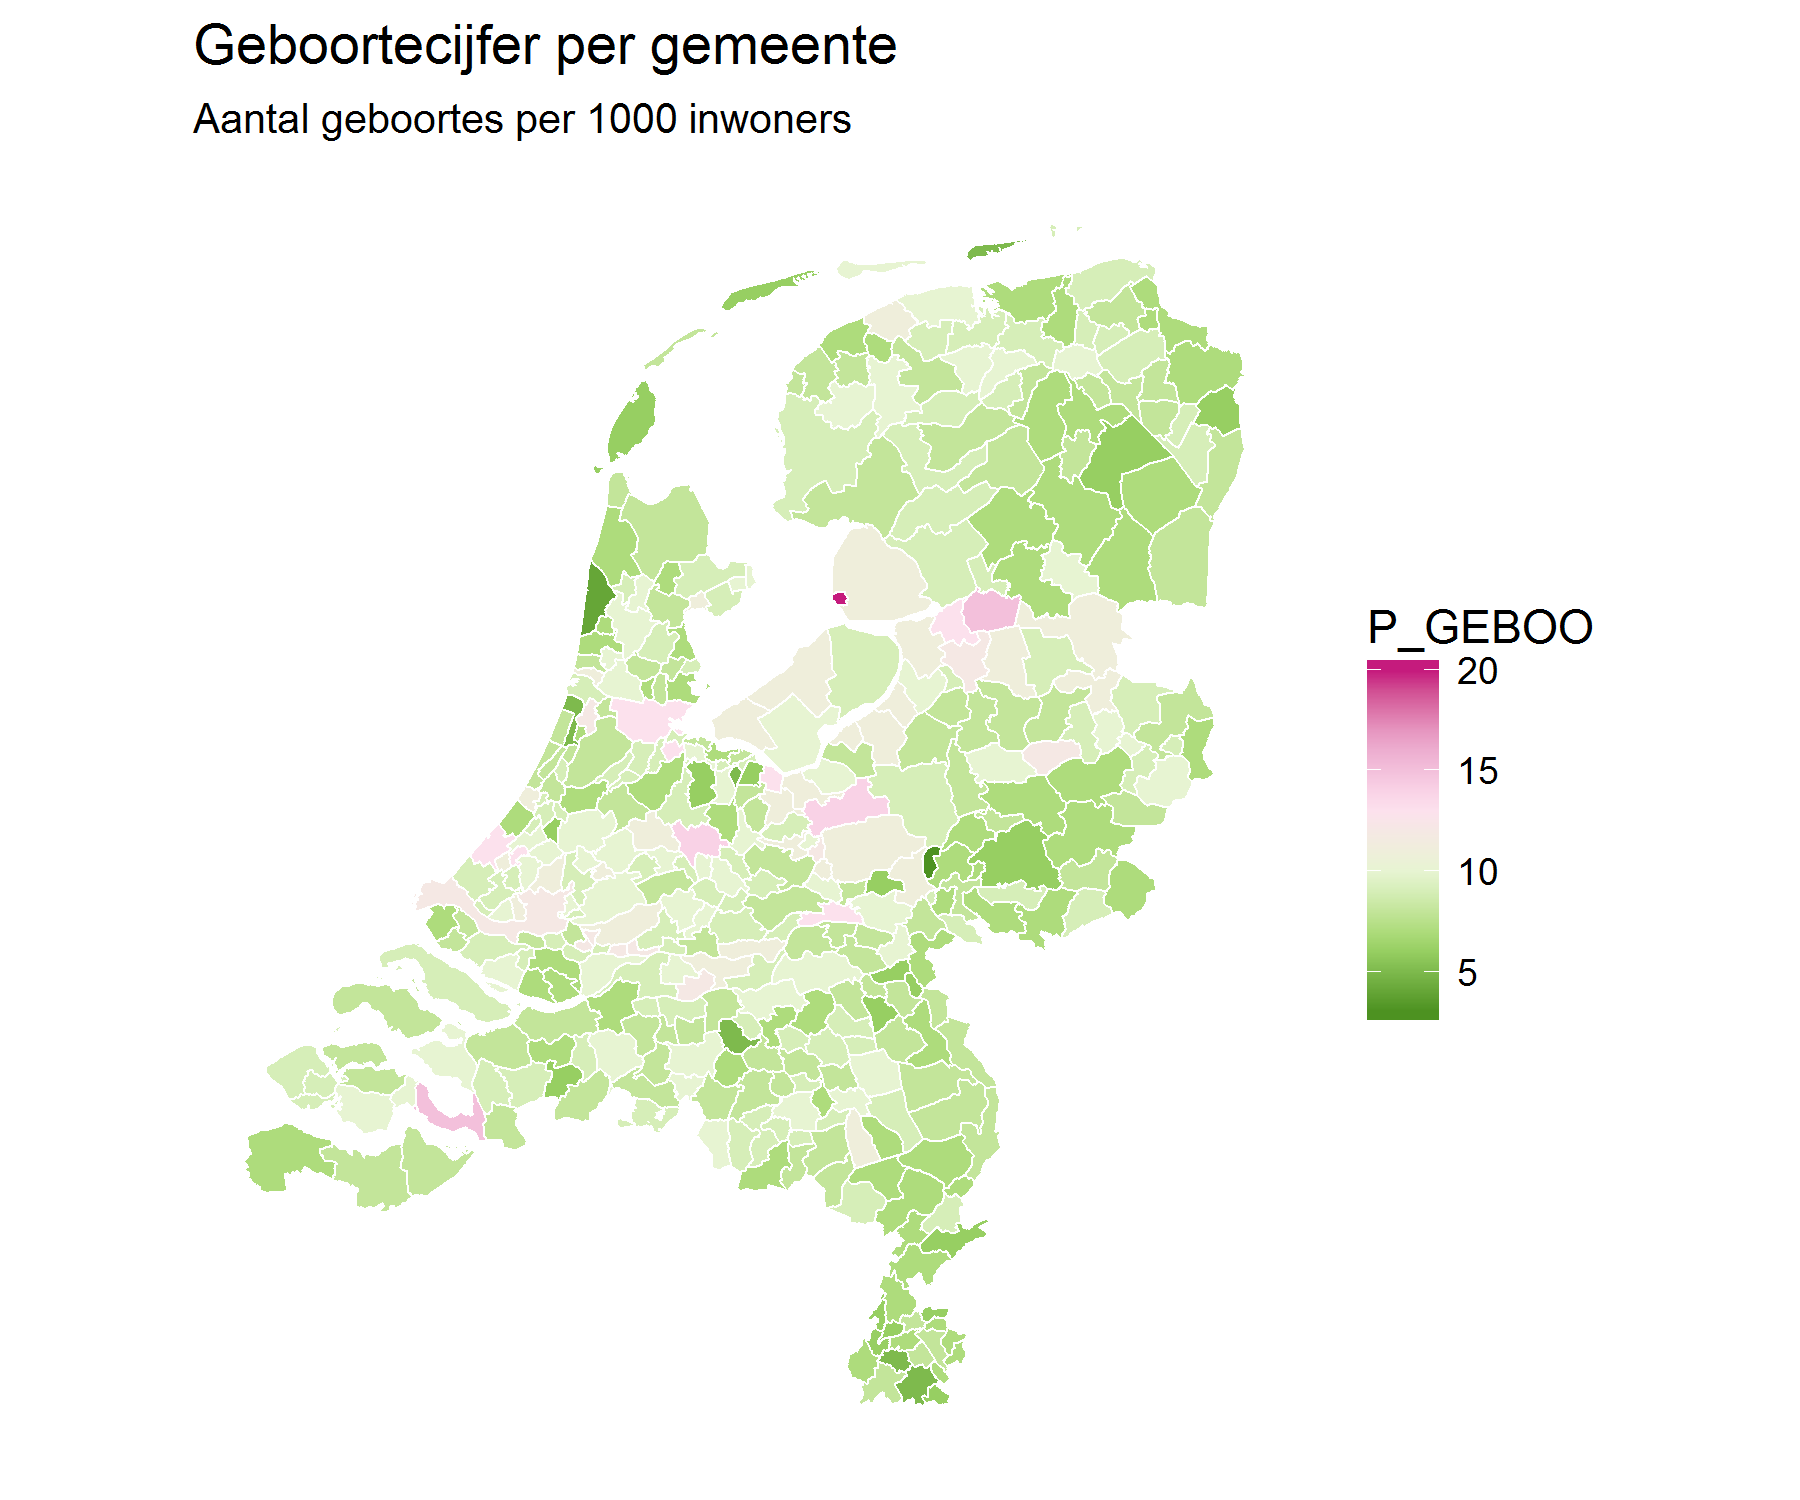
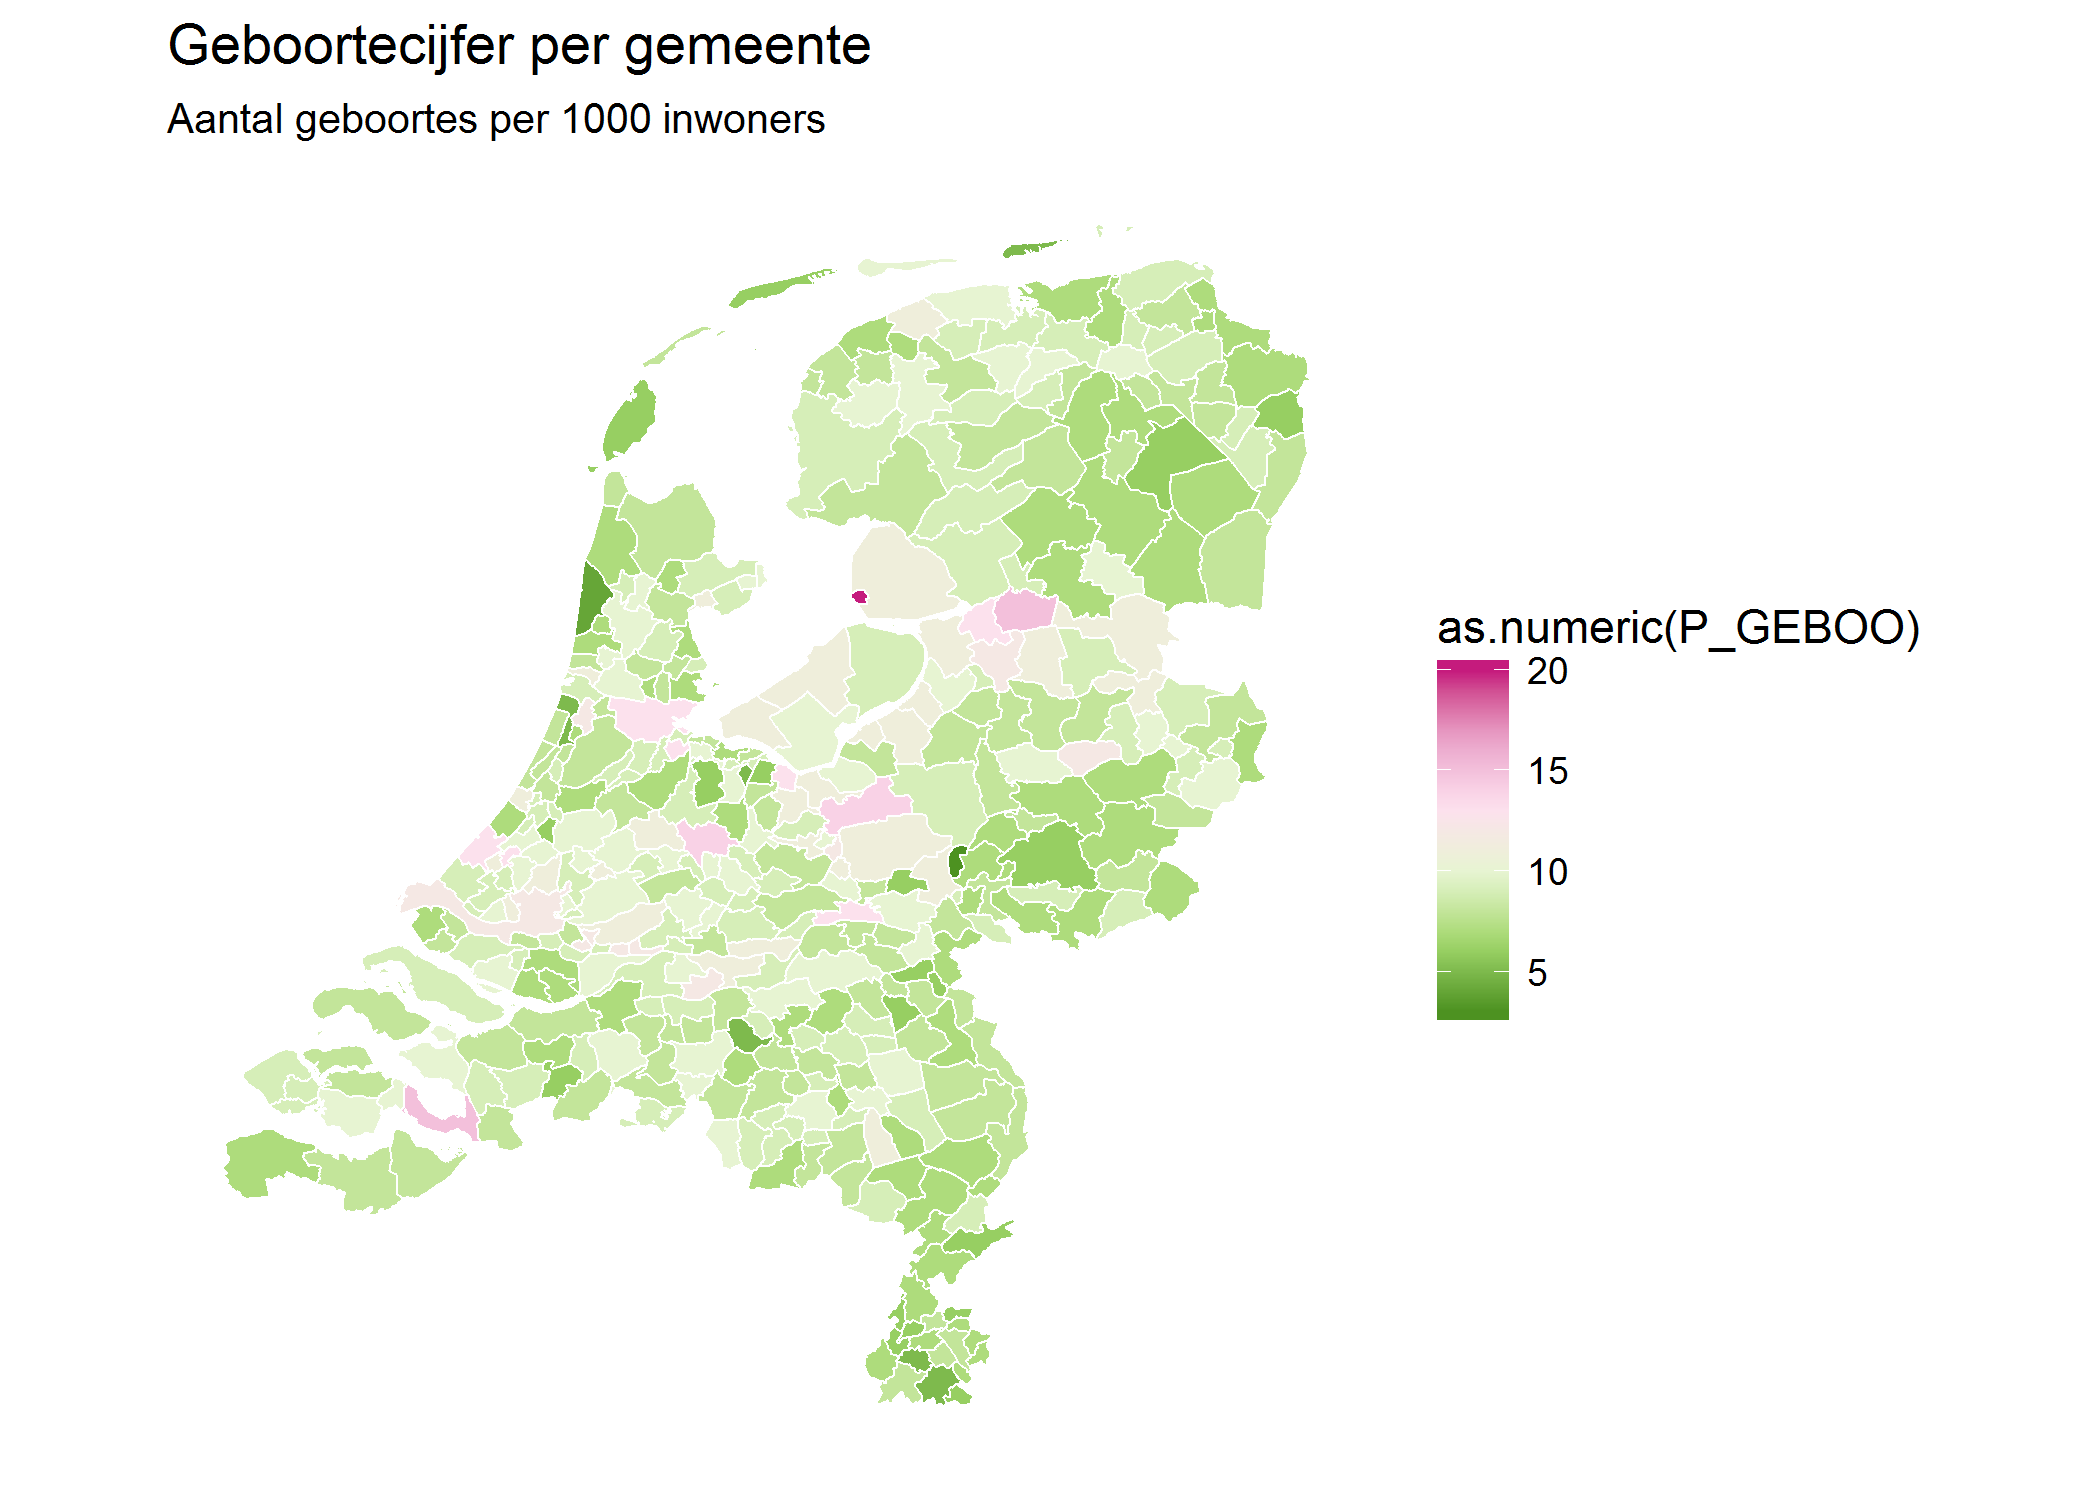
Reproject to WGS84 + download only when file does not exist

diff --git a/choropleth_vektis.md b/choropleth_vektis.md
@@ -1,7 +1,7 @@
 Choropleth with Vektis data
 ================
 Hugo Janssen (nl-hugo)
-16-10-2017
+19-10-2017
 
 This document creates a basic choropleth from a CBS shapefile containing data about The Netherlands. Data provided by the Dutch Statistics Center [CBS](https://www.cbs.nl/en-gb), [Kadaster](https://www.kadaster.com/) and [Vektis](https://www.vektis.nl/streams/open-data).
 
@@ -10,11 +10,9 @@ This document creates a basic choropleth from a CBS shapefile containing data ab
 Load the required packages and specify the file locations.
 
 ``` r
-#install.packages(c("rgeos", "maptools", "ggplot2", "plyr", "dplyr", "ggthemes"))
-library(rgeos)
+#install.packages(c("ggplot2", "dplyr", "ggthemes", "rgdal", "sp", "plyr"))
 library(ggplot2)
 library(ggthemes)
-library(plyr)
 library(dplyr)
 
 # specify file locations
@@ -28,19 +26,20 @@ datadir <- "data"
 Download the zipped data file and unzip. Note that files are downloaded only when no data folder is present.
 
 ``` r
-csv <- paste(datadir, "gemeente_2015.csv", sep = "/")
-
-# create a dir and download if no datadir is present 
-# assumes that files are downloaded if a datadir is present
+# create a dir if no datadir is present 
 if (!file.exists(datadir)) {
   dir.create(datadir)
+}
 
-  # cbs bestanden
-  tmpfile <- paste(datadir, basename(cbsURL), sep = "/")
+# download only when file does not exists
+tmpfile <- paste(datadir, basename(cbsURL), sep = "/")
+if (!file.exists(tmpfile)) {
   download.file(cbsURL, destfile = tmpfile)
-  unzip(tmpfile, exdir="./data")
-  
-  # vektis bestanden
+  unzip(tmpfile, exdir = datadir)
+}
+
+csv <- paste(datadir, "gemeente_2015.csv", sep = "/")
+if (!file.exists(csv)) {
   download.file(vektisURL, destfile = csv)
 }
 ```
@@ -86,21 +85,31 @@ gm.cbs <- c(
   "SÃºDWEST-FRYSLÃ¢N"
   )
   
-gem.df$gemeentenaam <- mapvalues(gem.df$gemeentenaam, from = gm.vektis, to = gm.cbs)
+gem.df$gemeentenaam <- plyr::mapvalues(gem.df$gemeentenaam, from = gm.vektis, to = gm.cbs)
 ```
 
 Read the topology from the shapefile and turn it into a dataframe that can be plotted by `ggplot`. Note that areas that are marked as sea or lake (by the `WATER` property) are excluded, so that coast is displayed nicely.
 
 ``` r
-# prepare filenames
-basename <- gsub("buurt", "gem", tools::file_path_sans_ext(basename(cbsURL)))
-shpfile <- paste(basename, "shp", sep = ".")
+# define the layer to extract
+layer <-
+  gsub("buurt", "gem", tools::file_path_sans_ext(basename(cbsURL)))
 
-# create spatial object
-nl <- maptools::readShapeSpatial(paste(datadir, shpfile, sep = "/"))
+# read spatial object from file
+nl <-
+  rgdal::readOGR(
+  datadir,
+  layer = layer,
+  verbose = FALSE,
+  stringsAsFactors = FALSE
+  )
 
 # remove watery areas
-nl <- nl[nl@data$WATER == "NEE", ]
+nl <- nl[nl@data$WATER == "NEE",]
+
+# reproject to WGS84
+nl <-
+  sp::spTransform(nl, sp::CRS("+proj=longlat +ellps=WGS84 +datum=WGS84"))
 
 # create id to join data
 nl@data$id <- as.character(nl@data$GM_CODE)
@@ -109,8 +118,8 @@ nl@data$id <- as.character(nl@data$GM_CODE)
 nl.points <- fortify(nl, region = "GM_CODE")
 
 # join the geo points and the data
-nl.df <- nl.points %>% 
-  left_join(nl@data, by = "id") %>% 
+nl.df <- nl.points %>%
+  left_join(nl@data, by = "id") %>%
   mutate(GM_NAAM = toupper(as.character(GM_NAAM))) %>%
   left_join(gem.df, by = c("GM_NAAM" = "gemeentenaam"))
 ```
@@ -130,7 +139,7 @@ p <- ggplot(nl.df) +
        y = NULL, 
        title = "Kosten MSZ",
        subtitle = "Gemiddelde kosten per verzekerde (2015)") +
-  coord_equal() +
+  coord_fixed(ratio = 1.5) +
   theme_minimal() +
   theme (
     panel.grid.major = element_blank(), 

diff --git a/choropleth_basic.md b/choropleth_basic.md
@@ -1,7 +1,7 @@
 Basic choropleth
 ================
 Hugo Janssen (nl-hugo)
-16-10-2017
+19-10-2017
 
 This document creates a basic choropleth from a CBS shapefile containing data about The Netherlands. Data provided by the Dutch Statistics Center [CBS](https://www.cbs.nl/en-gb) and [Kadaster](https://www.kadaster.com/).
 
@@ -10,8 +10,7 @@ This document creates a basic choropleth from a CBS shapefile containing data ab
 Load the required packages and specify the file locations.
 
 ``` r
-#install.packages(c("rgeos", "maptools", "ggplot2", "dplyr", "ggthemes"))
-library(rgeos)
+#install.packages(c("ggplot2", "dplyr", "ggthemes", "rgdal", "sp"))
 library(ggplot2)
 library(ggthemes)
 library(dplyr)
@@ -23,17 +22,19 @@ datadir <- "data"
 
 ### Download
 
-Download the zipped data file and unzip. Note that files are downloaded only when no data folder is present.
+Download the zipped data file and unzip. Note that files are downloaded only not present in the data folder.
 
 ``` r
-# create a dir and download if no datadir is present 
-# assumes that files are downloaded if a datadir is present
+# create a dir if no datadir is present 
 if (!file.exists(datadir)) {
   dir.create(datadir)
+}
 
-  tmpfile <- paste(datadir, basename(URL), sep = "/")
+# download only when file does not exists
+tmpfile <- paste(datadir, basename(URL), sep = "/")
+if (!file.exists(tmpfile)) {
   download.file(URL, destfile = tmpfile)
-  unzip(tmpfile, exdir="./data")
+  unzip(tmpfile, exdir = datadir)
 }
 ```
 
@@ -42,16 +43,26 @@ if (!file.exists(datadir)) {
 Read the topology from the shapefile and turn it into a dataframe that can be plotted by `ggplot`. Note that areas that are marked as sea or lake (by the `WATER` property) are excluded, so that coast is displayed nicely.
 
 ``` r
-# prepare filenames
-basename <- gsub("buurt", "gem", tools::file_path_sans_ext(basename(URL)))
-shpfile <- paste(basename, "shp", sep = ".")
-
-# create spatial object
-nl <- maptools::readShapeSpatial(paste(datadir, shpfile, sep = "/"))
-
+# define the layer to extract
+layer <-
+  gsub("buurt", "gem", tools::file_path_sans_ext(basename(URL)))
+  
+# read spatial object from file
+nl <-
+  rgdal::readOGR(
+  datadir,
+  layer = layer,
+  verbose = FALSE,
+  stringsAsFactors = FALSE
+  )
+  
 # remove watery areas
-nl <- nl[nl@data$WATER == "NEE", ]
+nl <- nl[nl@data$WATER == "NEE",]
 
+# reproject to WGS84
+nl <-
+  sp::spTransform(nl, sp::CRS("+proj=longlat +ellps=WGS84 +datum=WGS84"))
+  
 # create id to join data
 nl@data$id <- as.character(nl@data$GM_CODE)
 
@@ -69,7 +80,7 @@ Create a basic plot of the map with minimal styling.
 ``` r
 # create the plot
 p <- ggplot(nl.df) + 
-  aes(x = long, y = lat, group = group, fill = P_GEBOO) + 
+  aes(x = long, y = lat, group = group, fill = as.numeric(P_GEBOO)) + 
   geom_polygon() +
   geom_path(colour = "white", size = 0.25) +
   scale_fill_distiller(palette = "PiYG") + 
@@ -77,7 +88,7 @@ p <- ggplot(nl.df) +
        y = NULL, 
        title = "Geboortecijfer per gemeente",
        subtitle = "Aantal geboortes per 1000 inwoners") +
-  coord_equal() +
+  coord_fixed(ratio = 1.5) +
   theme_minimal() +
   theme (
     panel.grid.major = element_blank(), 
